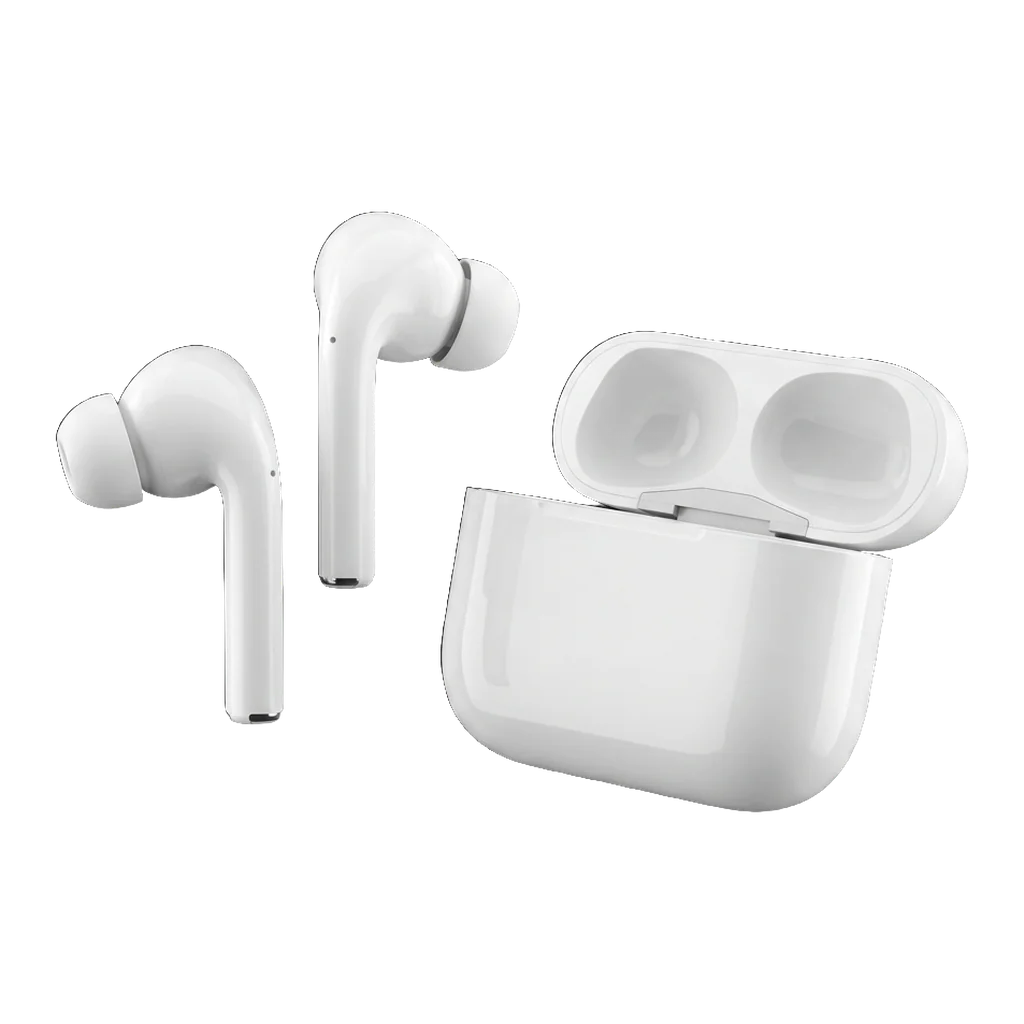
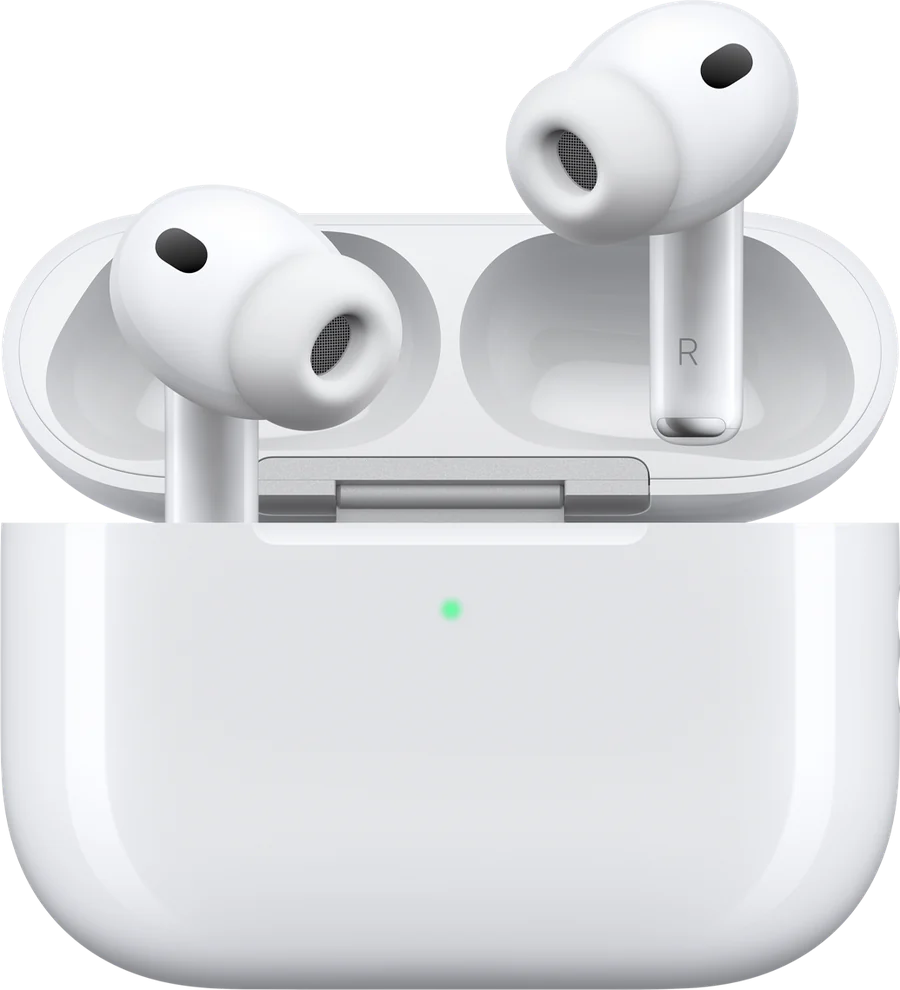
The Lucky Draw page takes the supplied product photos and the sand-and-bronze accent
The turquoise accent gives way to the brand's #DFC5AE and #AC7C59 across
chips, eyebrows, the heading gradient, the countdown label, the
calculator panel, the rules icons and the join card. The five prize
cards carry the product photos MKT supplied: the iPhone Duo photo sits
on the bottom edge of the featured card under a bottom-to-top blur with
the text over it, the iPad Pro photo bleeds off the right edge of its
card with the text kept bottom-left, and the iPhone, Apple Watch and
AirPods photos replace the renders. The calculator's 3D ticket render
is cut out onto a transparent background.

diff --git a/lucky-draw.html b/lucky-draw.html
@@ -43,7 +43,7 @@
    and a warm ticket gold used only where a prize is called out.
    ============================================================ */
 :root{--topbar-h:0px;--nav-h:0px}
-.ld{--ld-bg:#05070E;--ld-navy:#00102D;--ld-blue:#0047BB;--ld-bright:#2a72ff;--ld-sky:#7fb2ff;--ld-teal:#2ee6c5;--ld-gold:#f2c572;
+.ld{--ld-bg:#05070E;--ld-navy:#00102D;--ld-blue:#0047BB;--ld-bright:#2a72ff;--ld-sky:#7fb2ff;--ld-teal:#DFC5AE;--ld-sand:#DFC5AE;--ld-bronze:#AC7C59;--ld-gold:#DFC5AE;
   --ld-text:#fff;--ld-mute:#aeb8cc;--ld-dim:#7c879c;--ld-line:rgba(255,255,255,.1);--ld-glass:rgba(255,255,255,.05);
   background:var(--ld-bg);color:var(--ld-text)}
 .ld main{overflow-x:clip}
@@ -74,16 +74,16 @@
 .ld-hero{position:relative;min-height:100svh;display:flex;align-items:center;padding:clamp(120px,14vw,160px) 0 clamp(64px,7vw,96px);isolation:isolate;overflow:hidden}
 .ld-hero-bg{position:absolute;inset:0;z-index:-1;background:
   radial-gradient(60% 50% at 78% 38%,rgba(0,71,187,.55),transparent 65%),
-  radial-gradient(40% 40% at 12% 80%,rgba(46,230,197,.14),transparent 70%),
+  radial-gradient(40% 40% at 12% 80%,rgba(172,124,89,.14),transparent 70%),
   radial-gradient(70% 60% at 50% 110%,rgba(0,16,45,.9),transparent 70%),
   linear-gradient(180deg,#05070E 0%,#070d1f 55%,#05070E 100%)}
 .ld-confetti{position:absolute;inset:0;z-index:-1;width:100%;height:100%;pointer-events:none}
 .ld-hero-grid{display:grid;grid-template-columns:minmax(0,1.05fr) minmax(0,1fr);gap:clamp(28px,4vw,64px);align-items:center}
-.ld-chip{display:inline-flex;align-items:center;gap:10px;padding:9px 16px 9px 12px;border-radius:999px;border:1px solid rgba(46,230,197,.35);background:rgba(46,230,197,.08);
-  color:#c9fff4;font-size:12.5px;font-weight:700;letter-spacing:.08em;text-transform:uppercase}
-.ld-chip i{width:8px;height:8px;border-radius:50%;background:var(--ld-teal);box-shadow:0 0 0 5px rgba(46,230,197,.18);animation:ldPulse 2s ease-in-out infinite}
+.ld-chip{display:inline-flex;align-items:center;gap:10px;padding:9px 16px 9px 12px;border-radius:999px;border:1px solid rgba(223,197,174,.4);background:rgba(172,124,89,.16);
+  color:#f3e7da;font-size:12.5px;font-weight:700;letter-spacing:.08em;text-transform:uppercase}
+.ld-chip i{width:8px;height:8px;border-radius:50%;background:var(--ld-teal);box-shadow:0 0 0 5px rgba(223,197,174,.2);animation:ldPulse 2s ease-in-out infinite}
 .ld-h1{margin:22px 0 0;font-size:clamp(40px,6.6vw,84px);line-height:.98;letter-spacing:-.035em;font-weight:800;color:#fff}
-.ld-h1 .ld-grad{display:block;background:linear-gradient(92deg,#7fb2ff 0%,#2ee6c5 60%,#c9fff4 100%);-webkit-background-clip:text;background-clip:text;color:transparent}
+.ld-h1 .ld-grad{display:block;background:linear-gradient(92deg,#7fb2ff 0%,#DFC5AE 60%,#f3e7da 100%);-webkit-background-clip:text;background-clip:text;color:transparent}
 .ld-lead{margin:22px 0 0;max-width:560px;font-size:clamp(16.5px,1.6vw,20px);line-height:1.55;color:var(--ld-mute)}
 .ld-lead b{color:#fff;font-weight:600}
 .ld-actions{display:flex;flex-wrap:wrap;gap:12px;margin-top:32px}
@@ -106,7 +106,7 @@
 .ld-float-c b{color:var(--ld-teal)}
 @keyframes ldFloat{0%,100%{transform:translateY(0)}50%{transform:translateY(-10px)}}
 @keyframes ldBreathe{0%,100%{opacity:.7;transform:scale(1)}50%{opacity:1;transform:scale(1.06)}}
-@keyframes ldPulse{0%,100%{box-shadow:0 0 0 5px rgba(46,230,197,.18)}50%{box-shadow:0 0 0 9px rgba(46,230,197,.06)}}
+@keyframes ldPulse{0%,100%{box-shadow:0 0 0 5px rgba(223,197,174,.2)}50%{box-shadow:0 0 0 9px rgba(223,197,174,.06)}}
 
 /* ---------- the promotion in one read ---------- */
 .ld-pitch{position:relative;background:linear-gradient(180deg,#05070E,#070c1a)}
@@ -171,14 +171,14 @@
 .ld-ticks span:first-child{text-align:left}.ld-ticks span:last-child{text-align:right}
 .ld-ticks span.is-on{color:#fff}
 .ld-calc-out{position:relative;padding:clamp(26px,3.4vw,44px) clamp(26px,3.4vw,44px) clamp(18px,2.4vw,30px);display:flex;flex-direction:column;justify-content:center;align-items:center;text-align:center;gap:6px;
-  background:linear-gradient(160deg,rgba(0,71,187,.55),rgba(0,16,45,.6) 60%,rgba(46,230,197,.12));border-left:1px solid var(--ld-line)}
-.ld-calc-out::before{content:"";position:absolute;inset:0;background:radial-gradient(60% 50% at 50% 100%,rgba(46,230,197,.25),transparent 70%);pointer-events:none}
+  background:linear-gradient(160deg,rgba(0,71,187,.55),rgba(0,16,45,.6) 60%,rgba(172,124,89,.2));border-left:1px solid var(--ld-line)}
+.ld-calc-out::before{content:"";position:absolute;inset:0;background:radial-gradient(60% 50% at 50% 100%,rgba(172,124,89,.28),transparent 70%);pointer-events:none}
 .ld-calc-out>*{position:relative}
-.ld-calc-out .ld-out-l{font-size:13px;font-weight:700;letter-spacing:.14em;text-transform:uppercase;color:#c9fff4}
+.ld-calc-out .ld-out-l{font-size:13px;font-weight:700;letter-spacing:.14em;text-transform:uppercase;color:#f3e7da}
 .ld-calc-out output{display:block;font-size:clamp(64px,8vw,112px);line-height:1;font-weight:800;letter-spacing:-.05em;color:#fff;font-variant-numeric:tabular-nums;text-shadow:0 20px 60px rgba(42,114,255,.6)}
-.ld-calc-out .ld-more{display:inline-flex;align-items:center;gap:8px;margin-top:8px;padding:8px 14px;border-radius:999px;border:1px solid rgba(46,230,197,.4);background:rgba(46,230,197,.1);color:#c9fff4;font-size:13.5px;font-weight:700;min-height:36px}
+.ld-calc-out .ld-more{display:inline-flex;align-items:center;gap:8px;margin-top:8px;padding:8px 14px;border-radius:999px;border:1px solid rgba(223,197,174,.4);background:rgba(172,124,89,.18);color:#f3e7da;font-size:13.5px;font-weight:700;min-height:36px}
 .ld-calc-out .ld-more[hidden]{display:none}
-.ld-tickets3d{display:block;width:min(78%,300px);aspect-ratio:1;margin:-6px auto 0;position:relative;mix-blend-mode:screen;transition:transform .6s var(--ease)}
+.ld-tickets3d{display:block;width:min(78%,300px);aspect-ratio:1;margin:-6px auto 0;position:relative;filter:drop-shadow(0 30px 40px rgba(42,114,255,.35));transition:transform .6s var(--ease)}
 .ld-tickets3d img{display:block;width:100%;height:100%;object-fit:contain}
 .ld-tickets3d.is-bump{animation:ldBump .55s var(--ease)}
 @keyframes ldBump{0%{transform:scale(1)}40%{transform:scale(1.07) rotate(-2deg)}100%{transform:scale(1)}}
@@ -188,23 +188,34 @@
 .ld-prizes{background:linear-gradient(180deg,#05070E,#070b17 40%,#05070E)}
 .ld-prize-grid{display:grid;grid-template-columns:repeat(4,minmax(0,1fr));gap:16px;margin-top:48px}
 .ld-prize{padding:26px 24px 26px;display:flex;flex-direction:column;gap:10px;min-height:250px;overflow:hidden}
-.ld-prize--1{grid-column:span 2;grid-row:span 2;min-height:420px;padding:34px 32px;background:linear-gradient(160deg,rgba(0,71,187,.5),rgba(255,255,255,.03) 55%,rgba(242,197,114,.1));border-color:rgba(242,197,114,.35)}
-.ld-prize--1::before{background:linear-gradient(90deg,transparent,rgba(242,197,114,.9),transparent)}
+.ld-prize--1{grid-column:span 2;grid-row:span 2;min-height:640px;padding:34px 32px 32px;justify-content:flex-end;background:linear-gradient(160deg,rgba(0,71,187,.5),rgba(255,255,255,.03) 55%,rgba(172,124,89,.16));border-color:rgba(223,197,174,.4)}
+.ld-prize--1::before{background:linear-gradient(90deg,transparent,rgba(223,197,174,.9),transparent)}
 .ld-rank{display:inline-flex;align-items:center;gap:8px;align-self:flex-start;padding:7px 12px;border-radius:999px;font-size:11.5px;font-weight:800;letter-spacing:.1em;text-transform:uppercase;
   border:1px solid rgba(127,178,255,.35);background:rgba(127,178,255,.1);color:#c8dcff}
-.ld-prize--1 .ld-rank{border-color:rgba(242,197,114,.5);background:rgba(242,197,114,.14);color:#ffe2a8}
+.ld-prize--1 .ld-rank{border-color:rgba(223,197,174,.55);background:rgba(172,124,89,.22);color:#f3e7da}
 .ld-rank svg{width:14px;height:14px;fill:none;stroke:currentColor;stroke-width:2;stroke-linecap:round;stroke-linejoin:round}
 .ld-prize-art{flex:1;display:grid;place-items:center;min-height:150px}
-.ld-prize--1 .ld-prize-art{min-height:300px;position:relative}
-.ld-prize--1 .ld-prize-art::before{content:"";position:absolute;width:min(70%,360px);aspect-ratio:1;border-radius:50%;background:radial-gradient(closest-side,rgba(242,197,114,.28),rgba(42,114,255,.18) 55%,transparent);filter:blur(10px);animation:ldBreathe 6s ease-in-out infinite}
-.ld-prize-art img{display:block;width:clamp(150px,15vw,200px);height:auto;aspect-ratio:1;object-fit:contain;filter:drop-shadow(0 28px 36px rgba(0,0,0,.55)) drop-shadow(0 0 30px rgba(42,114,255,.25));transition:transform .5s var(--ease)}
+.ld-prize--1 .ld-prize-art{position:absolute;inset:0;display:block;min-height:0;z-index:0;overflow:hidden;border-radius:inherit}
+.ld-prize--1 .ld-prize-art img{position:absolute;left:50%;bottom:0;transform:translateX(-50%);width:124%;max-width:none;max-height:none;height:auto;filter:none}
+.ld-prize--1>.ld-rank{margin-bottom:auto}
+.ld-prize--1 .ld-prize-art::before{content:"";position:absolute;left:0;right:0;bottom:0;height:44%;backdrop-filter:blur(14px);-webkit-backdrop-filter:blur(14px);
+  -webkit-mask:linear-gradient(to top,#000 30%,transparent 100%);mask:linear-gradient(to top,#000 30%,transparent 100%)}
+.ld-prize--1 .ld-prize-art::after{content:"";position:absolute;left:0;right:0;bottom:0;height:52%;background:linear-gradient(to top,rgba(7,10,22,.94) 0%,rgba(7,10,22,.5) 50%,rgba(7,10,22,0) 100%)}
+.ld-prize--1>.ld-rank,.ld-prize--1>h3,.ld-prize--1>p{position:relative;z-index:1}
+.ld-prize--1:hover .ld-prize-art img{transform:translateX(-50%)}
+.ld-prize-art img{display:block;width:auto;max-width:82%;max-height:200px;height:auto;object-fit:contain;filter:drop-shadow(0 28px 36px rgba(0,0,0,.55)) drop-shadow(0 0 30px rgba(42,114,255,.25));transition:transform .5s var(--ease)}
 .ld-prize:hover .ld-prize-art img{transform:translateY(-6px) scale(1.04)}
-.ld-prize--1 .ld-prize-art img{width:clamp(260px,26vw,380px);position:relative;filter:drop-shadow(0 36px 48px rgba(0,0,0,.6)) drop-shadow(0 0 40px rgba(242,197,114,.18))}
 .ld-prize h3{margin:0;font-size:clamp(18px,1.6vw,22px);letter-spacing:-.02em;color:#fff}
 .ld-prize--1 h3{font-size:clamp(26px,2.6vw,36px)}
 .ld-prize p{margin:0;font-size:13.5px;color:var(--ld-mute)}
 .ld-prize p b{color:#fff;font-weight:700}
 .ld-prize--1 p{font-size:15px}
+.ld-prize--pad{justify-content:flex-end}
+.ld-prize--pad .ld-prize-art{position:absolute;top:76px;right:0;left:auto;width:100%;min-height:0;display:block;z-index:0}
+.ld-prize--pad .ld-prize-art img{position:absolute;right:-12%;top:0;width:110%;max-width:none;max-height:none;height:auto;aspect-ratio:auto;object-fit:contain;filter:drop-shadow(0 24px 30px rgba(0,0,0,.5))}
+.ld-prize--pad:hover .ld-prize-art img{transform:translateY(-4px)}
+.ld-prize--pad>.ld-rank,.ld-prize--pad>h3,.ld-prize--pad>p{position:relative;z-index:1}
+.ld-prize--pad>.ld-rank{margin-bottom:auto}
 .ld-prize-note{margin:24px auto 0;max-width:860px;text-align:center;font-size:13.5px;line-height:1.65;color:var(--ld-dim)}
 .ld-prize-note b{color:var(--ld-mute);font-weight:600}
 
@@ -217,7 +228,7 @@
 .ld-rules{list-style:none;margin:0;padding:0;display:grid;gap:12px}
 .ld-rules li{display:flex;gap:14px;align-items:flex-start;padding:18px 20px;font-size:15px;line-height:1.55;color:#e6ebf5}
 .ld-rules li:hover{transform:none}
-.ld-rules .ld-rule-ic{flex:none;width:32px;height:32px;border-radius:10px;display:grid;place-items:center;background:rgba(46,230,197,.12);color:var(--ld-teal)}
+.ld-rules .ld-rule-ic{flex:none;width:32px;height:32px;border-radius:10px;display:grid;place-items:center;background:rgba(172,124,89,.2);color:var(--ld-teal)}
 .ld-rules li.is-no .ld-rule-ic{background:rgba(239,68,68,.14);color:#ff8f8f}
 .ld-rules li.is-info .ld-rule-ic{background:rgba(127,178,255,.12);color:var(--ld-sky)}
 .ld-rules .ld-rule-ic svg{width:16px;height:16px;fill:none;stroke:currentColor;stroke-width:2.2;stroke-linecap:round;stroke-linejoin:round}
@@ -225,9 +236,9 @@
 /* ---------- join ---------- */
 .ld-join{background:linear-gradient(180deg,#05070E,#06102a)}
 .ld-join-card{position:relative;padding:clamp(40px,6vw,80px) clamp(22px,5vw,72px);text-align:center;overflow:hidden;
-  background:linear-gradient(160deg,rgba(0,71,187,.6),rgba(0,16,45,.7) 55%,rgba(46,230,197,.14));border:1px solid rgba(127,178,255,.3)}
+  background:linear-gradient(160deg,rgba(0,71,187,.6),rgba(0,16,45,.7) 55%,rgba(172,124,89,.14));border:1px solid rgba(127,178,255,.3)}
 .ld-join-card:hover{transform:none}
-.ld-join-card::after{content:"";position:absolute;inset:auto -30% -70% -30%;height:90%;background:radial-gradient(closest-side,rgba(46,230,197,.3),transparent);pointer-events:none}
+.ld-join-card::after{content:"";position:absolute;inset:auto -30% -70% -30%;height:90%;background:radial-gradient(closest-side,rgba(172,124,89,.3),transparent);pointer-events:none}
 .ld-join-card>*{position:relative;z-index:1}
 .ld-join-art{position:absolute!important;z-index:0!important;right:-6%;top:-20%;width:min(62%,640px);aspect-ratio:16/9;opacity:.55;pointer-events:none;
   mask-image:radial-gradient(70% 70% at 60% 50%,#000 30%,transparent 100%);-webkit-mask-image:radial-gradient(70% 70% at 60% 50%,#000 30%,transparent 100%)}
@@ -261,13 +272,15 @@
   .ld-calc-card{grid-template-columns:1fr}
   .ld-calc-out{border-left:0;border-top:1px solid var(--ld-line)}
   .ld-prize-grid{grid-template-columns:repeat(2,minmax(0,1fr))}
-  .ld-prize--1{grid-column:span 2;grid-row:auto;min-height:340px}
+  .ld-prize--1{grid-column:span 2;grid-row:auto;min-height:520px}
+  .ld-prize--pad{min-height:340px}
 }
 @media (max-width:640px){
   .ld-facts{grid-template-columns:1fr}
   .ld-fact{min-height:0;padding-top:64px}
   .ld-prize-grid{grid-template-columns:1fr}
-  .ld-prize--1{grid-column:auto}
+  .ld-prize--1{grid-column:auto;min-height:440px}
+  .ld-prize--pad{min-height:360px}
   .ld-stage{aspect-ratio:auto;display:flex;flex-direction:column;gap:10px}
   .ld-stage img{aspect-ratio:4/3;height:auto}
   .ld-stage-glow{inset:6% 8% auto;height:52%}
@@ -451,7 +464,7 @@
         <span class="ld-out-l">Lucky Draw tickets earned</span>
         <output for="ld-dep ld-lots" data-ld-tickets>1</output>
         <span class="ld-more" data-ld-more hidden><svg class="ico" style="width:14px;height:14px"><use href="#ld-ticket"/></svg>+<span data-ld-more-n>0</span> more</span>
-        <span class="ld-tickets3d" data-ld-stack aria-hidden="true"><img src="assets/img/lucky-tickets-3d.webp" alt="" width="1024" height="1024" loading="lazy" decoding="async"></span>
+        <span class="ld-tickets3d" data-ld-stack aria-hidden="true"><img src="assets/img/lucky-tickets-3d.webp" alt="" width="785" height="785" loading="lazy" decoding="async"></span>
       </div>
     </div>
     <p class="ld-calc-note" data-aos="fade-up">Trading incurs the spread on each position opened and closed. Spread costs increase with volume and may be significant relative to the value of a prize. Tickets do not guarantee a prize.</p>
@@ -468,31 +481,31 @@
     <div class="ld-prize-grid">
       <article class="ld-card ld-prize ld-prize--1" data-aos="fade-up">
         <span class="ld-rank"><svg><use href="#ld-crown"/></svg>1st Draw Winner</span>
-        <div class="ld-prize-art"><img src="assets/img/lucky-prize-1.webp" alt="Foldable dual-screen smartphone" width="1024" height="1024" loading="lazy" decoding="async"></div>
+        <div class="ld-prize-art"><img src="assets/img/lucky-prize-1.webp" alt="iPhone Duo held open in two hands" width="1600" height="1080" loading="lazy" decoding="async"></div>
         <h3>Iphone Duo 256GB</h3>
         <p>Cash Equivalent (USD): <b>1,599 USD</b></p>
       </article>
-      <article class="ld-card ld-prize" data-aos="fade-up" data-aos-delay="100">
+      <article class="ld-card ld-prize ld-prize--pad" data-aos="fade-up" data-aos-delay="100">
         <span class="ld-rank">2nd Draw Winner</span>
-        <div class="ld-prize-art"><img src="assets/img/lucky-prize-2.webp" alt="Tablet" width="1024" height="1024" loading="lazy" decoding="async"></div>
+        <div class="ld-prize-art"><img src="assets/img/lucky-prize-2.webp" alt="iPad Pro with Apple Pencil" width="1600" height="779" loading="lazy" decoding="async"></div>
         <h3>Ipad Pro 256GB</h3>
         <p>Cash Equivalent (USD): <b>959 USD</b></p>
       </article>
       <article class="ld-card ld-prize" data-aos="fade-up" data-aos-delay="200">
         <span class="ld-rank">3rd Draw Winner</span>
-        <div class="ld-prize-art"><img src="assets/img/lucky-prize-3.webp" alt="Smartphone" width="1024" height="1024" loading="lazy" decoding="async"></div>
+        <div class="ld-prize-art"><img src="assets/img/lucky-prize-3.webp" alt="iPhone 17" width="906" height="1123" loading="lazy" decoding="async"></div>
         <h3>Iphone 17 256GB</h3>
         <p>Cash Equivalent (USD): <b>639 USD</b></p>
       </article>
       <article class="ld-card ld-prize" data-aos="fade-up" data-aos-delay="300">
         <span class="ld-rank">4th Draw Winner</span>
-        <div class="ld-prize-art"><img src="assets/img/lucky-prize-4.webp" alt="Smartwatch" width="1024" height="1024" loading="lazy" decoding="async"></div>
+        <div class="ld-prize-art"><img src="assets/img/lucky-prize-4.webp" alt="Apple Watch Series 12 in three bands" width="1400" height="915" loading="lazy" decoding="async"></div>
         <h3>Apple Watch Series 12</h3>
         <p>Cash Equivalent (USD): <b>319 USD</b></p>
       </article>
       <article class="ld-card ld-prize" data-aos="fade-up" data-aos-delay="400">
         <span class="ld-rank">5th Draw Winner</span>
-        <div class="ld-prize-art"><img src="assets/img/lucky-prize-5.webp" alt="Wireless earbuds with charging case" width="1024" height="1024" loading="lazy" decoding="async"></div>
+        <div class="ld-prize-art"><img src="assets/img/lucky-prize-5.webp" alt="AirPods Pro 3 with charging case" width="900" height="990" loading="lazy" decoding="async"></div>
         <h3>Airpods Pro 3</h3>
         <p>Cash Equivalent (USD): <b>199 USD</b></p>
       </article>
@@ -650,7 +663,7 @@ document.addEventListener('DOMContentLoaded', function () {
     var c = document.querySelector('[data-ld-confetti]');
     if (!c || reduce || window.innerWidth < 720) { if (c) c.remove(); return; }
     var ctx = c.getContext('2d'), W, H, parts = [], running = true, raf;
-    var COLORS = ['rgba(127,178,255,', 'rgba(46,230,197,', 'rgba(255,255,255,', 'rgba(42,114,255,'];
+    var COLORS = ['rgba(127,178,255,', 'rgba(223,197,174,', 'rgba(255,255,255,', 'rgba(42,114,255,'];
     function size() { var r = c.getBoundingClientRect(); W = c.width = Math.floor(r.width); H = c.height = Math.floor(r.height); }
     function make() { return { x: Math.random() * W, y: Math.random() * H, w: 4 + Math.random() * 6, h: 2 + Math.random() * 4, r: Math.random() * Math.PI, vr: (Math.random() - .5) * .02, vy: .25 + Math.random() * .5, vx: (Math.random() - .5) * .3, a: .25 + Math.random() * .45, col: COLORS[Math.floor(Math.random() * COLORS.length)] }; }
     function draw() {
